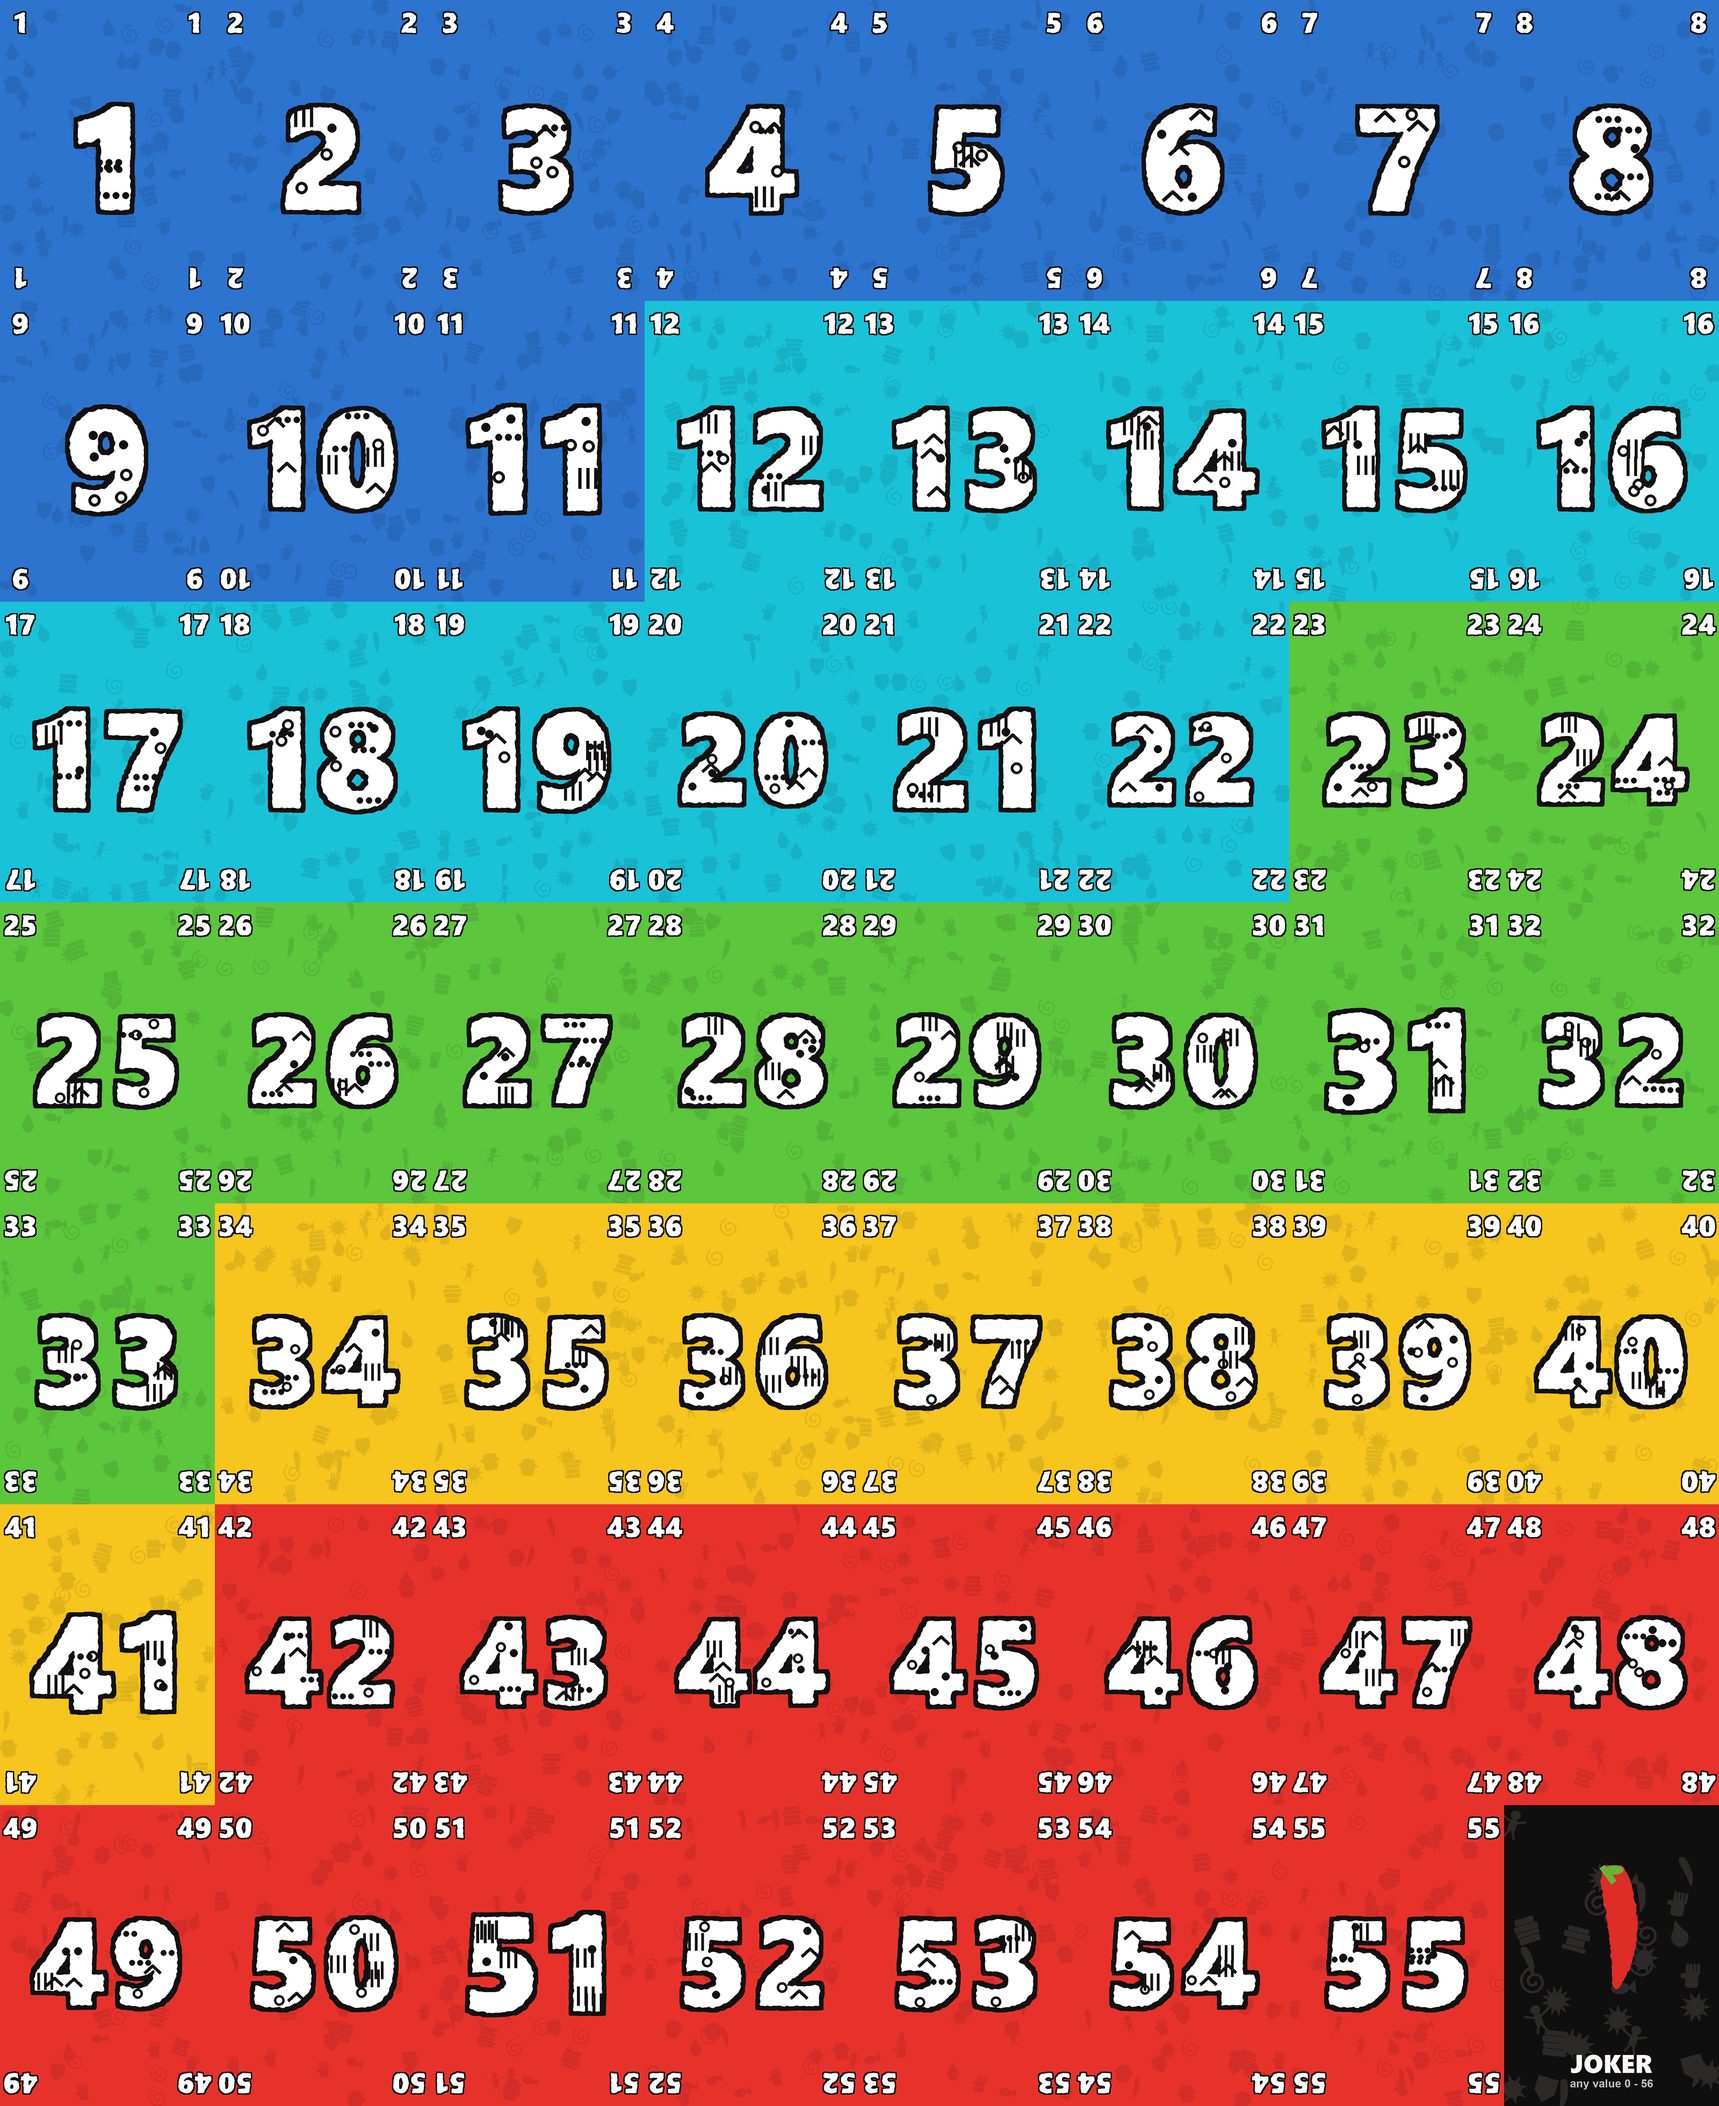
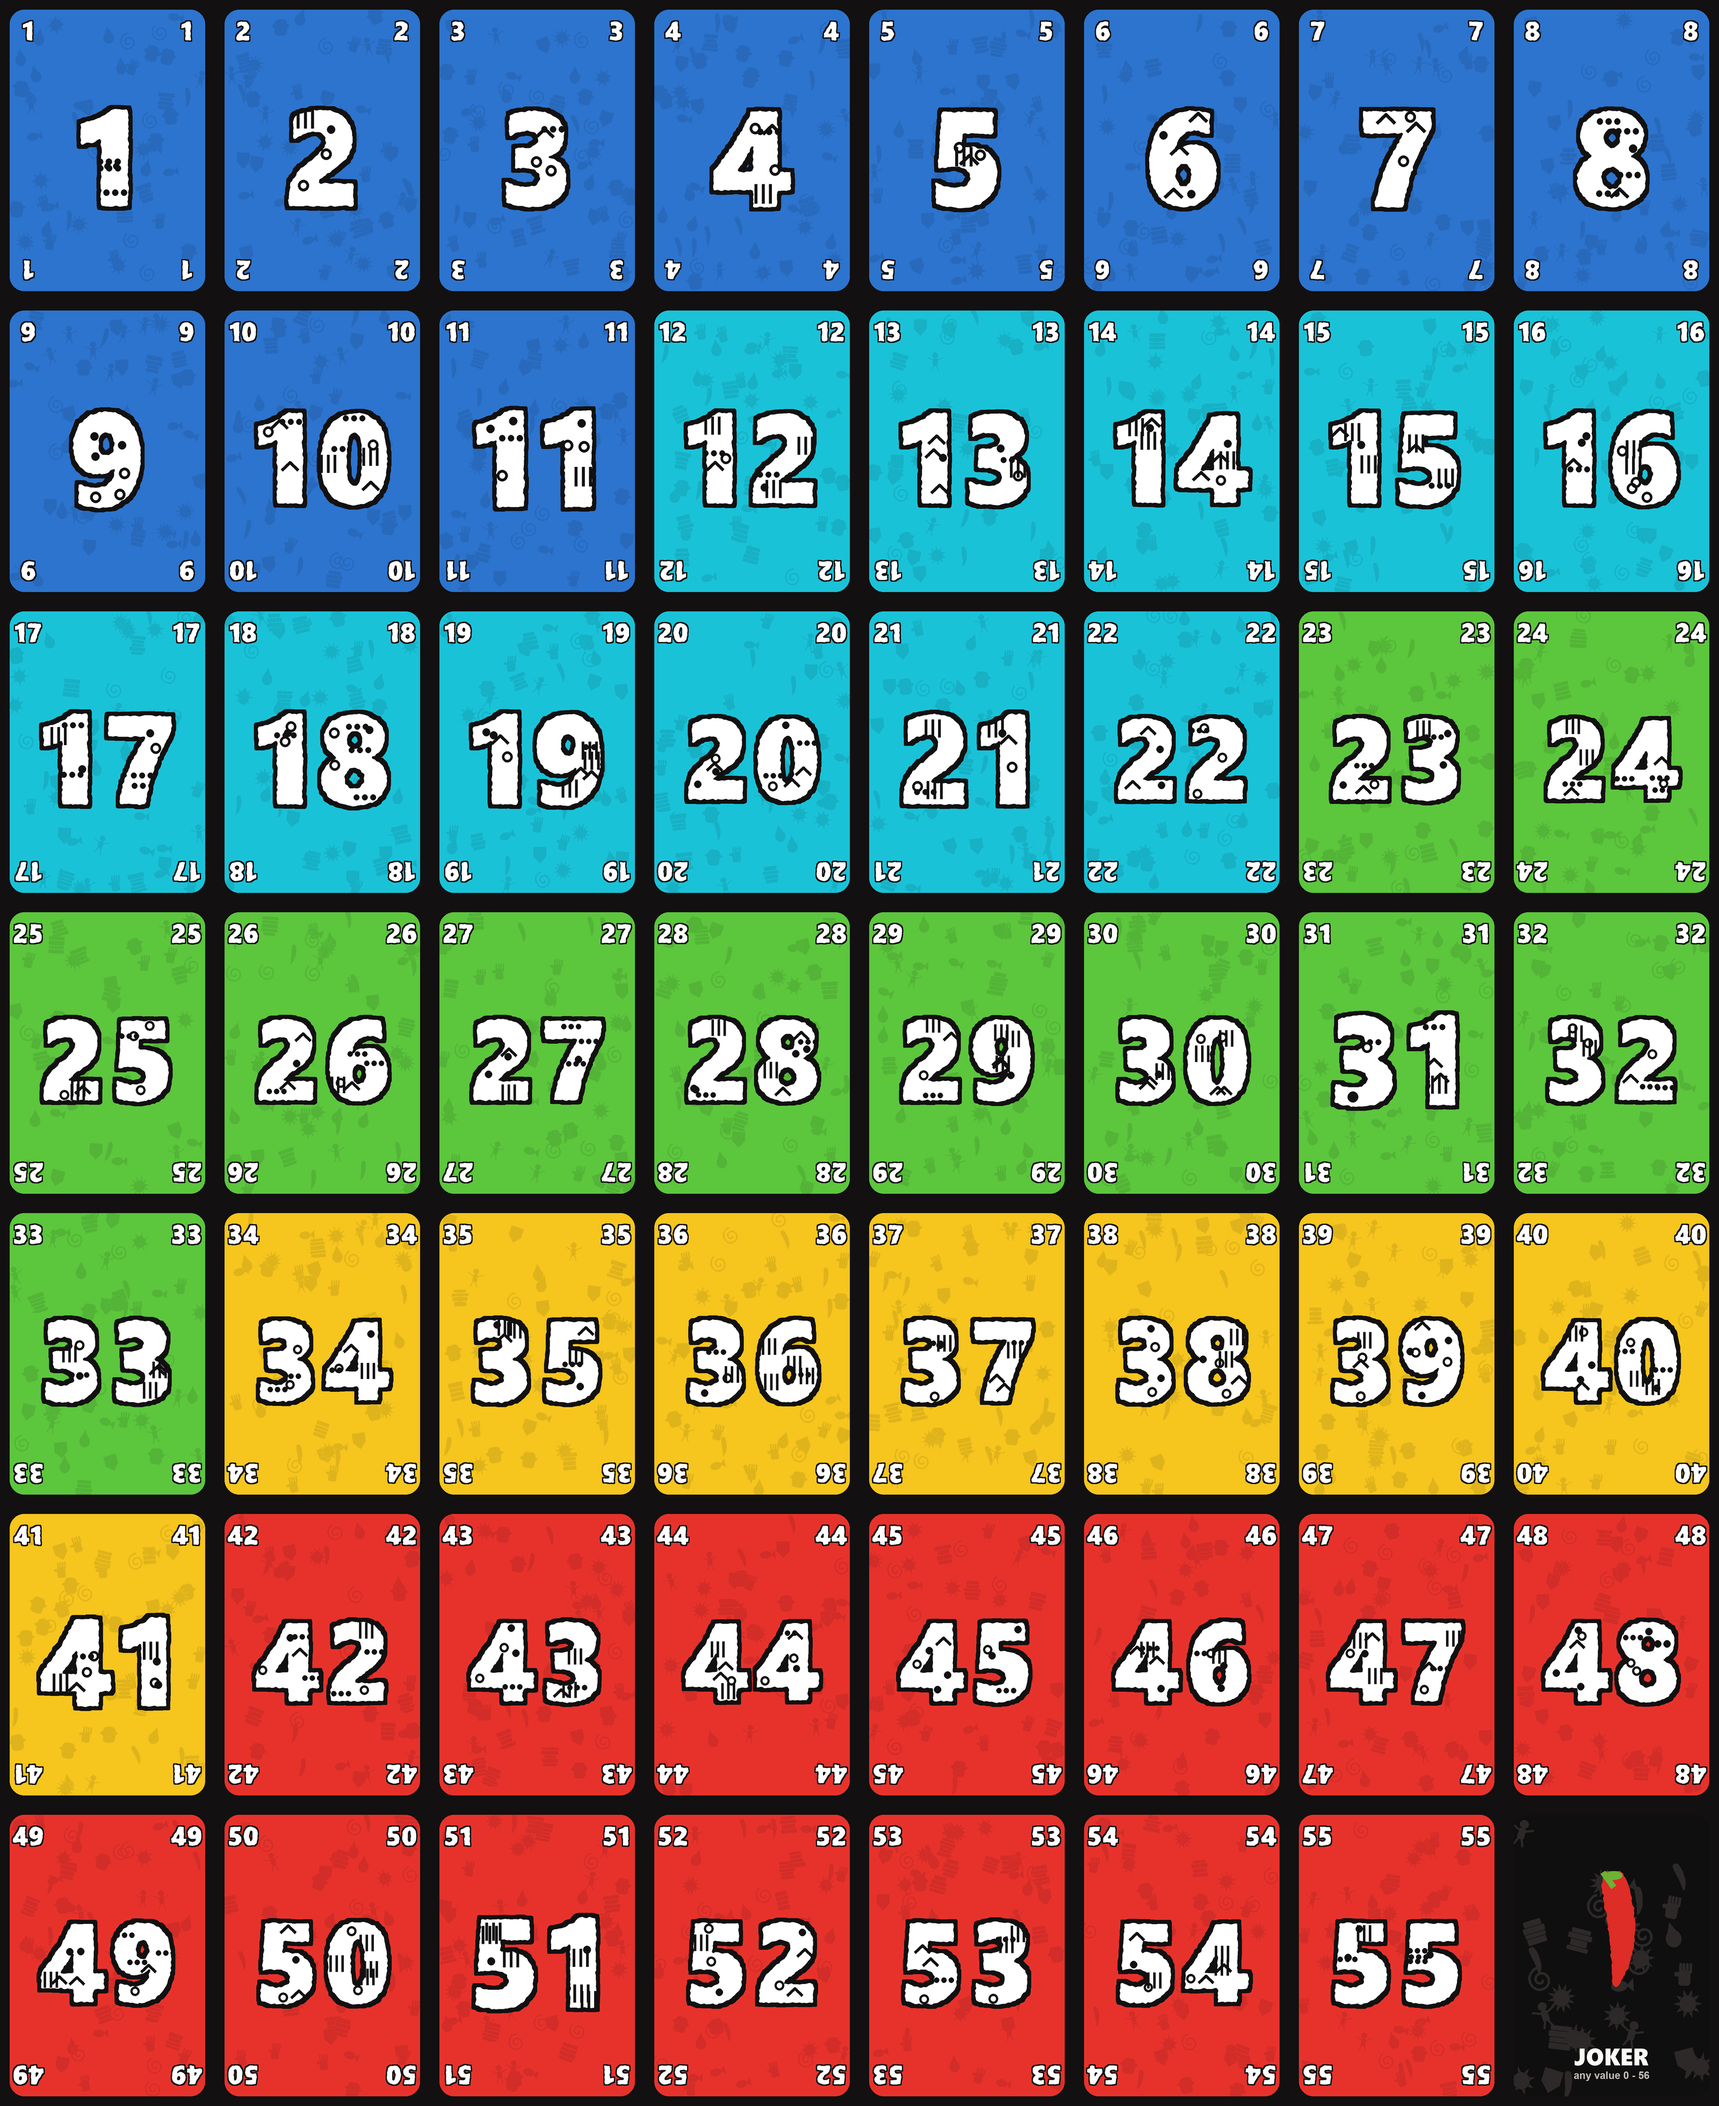
Black card borders, and stop tokens turning into a "?" when flipped
Borders: framed() adds the published cards' heavy black rounded border
to every face and back. It scales the art down into the inset rather
than painting the frame over the top - the corner indices sit close
enough to the edge that painting over would clip them - and rounds the
inner corners, since TTS draws a card as a rounded rectangle and a
square frame would show the felt cutting its corners off.

Tokens: flipping a Pili showed TTS's generic "?" placeholder because
BASE_FLAGS set HideWhenFaceDown on every object this file builds. That
flag hides a face-down object's identity, which is a card behaviour and
nothing else. Real-mod convention is unanimous - all 425 Custom_Tokens,
493 Custom_Tiles, 51 Custom_PDFs and 45 Infinite_Bags checked have it
False; only cards ever set it True (64 of 111). BASE_FLAGS now defaults
False and card()/deck() set it True themselves, so a token looks the
same whichever way up it lands.

Note ImageSecondaryURL is deliberately still empty on tokens: all 452
real Custom_Tokens leave it empty and TTS mirrors the front by itself.
Setting a back image would have papered over the flag bug rather than
fixing it.

Changed region(s): [[0.0, 0.0, 1.0, 1.0]]

diff --git a/build_save.py b/build_save.py
@@ -150,12 +150,21 @@ def transform(pos, rot=(0, 180, 0), scale=1.0):
     }
 
 
+# HideWhenFaceDown is FALSE here and set to True only on cards (see card()/
+# deck()). It hides a face-down object's identity behind TTS's generic "?"
+# placeholder, which is what you want for a card and nothing else - a Pili
+# token flipped over turned into a question mark, reported from a real game.
+# Every one of the 425 real Custom_Tokens checked across 28 workshop mods
+# has it False, as do all 493 Custom_Tiles, all 51 Custom_PDFs and all 45
+# Infinite_Bags; only cards ever set it True (64 of 111). With it off, TTS
+# mirrors the front onto the back by itself, so a token looks the same
+# whichever way up it lands - which is all these ones need.
 BASE_FLAGS = {
     "ColorDiffuse": {"r": 1.0, "g": 1.0, "b": 1.0},
     "Locked": False, "Grid": True, "Snap": True, "IgnoreFoW": False,
     "MeasureMovement": False, "DragSelectable": True, "Autoraise": True,
     "Sticky": True, "Tooltip": True, "GridProjection": False,
-    "HideWhenFaceDown": True, "Hands": True,
+    "HideWhenFaceDown": False, "Hands": True,
 }
 
 
@@ -172,6 +181,7 @@ def card(deck_id, index, nickname, description, gm_notes, cd, pos, rot):
         "GUID": guid(), "Name": "CardCustom",
         "Transform": transform(pos, rot),
         "Nickname": nickname, "Description": description, "GMNotes": gm_notes,
+        "HideWhenFaceDown": True,
         "CardID": deck_id * 100 + index,
         "SidewaysCard": False,
         "CustomDeck": {str(deck_id): cd},
@@ -184,6 +194,7 @@ def deck(deck_id, cards, nickname, gm_notes, cd, pos, rot=(0, 180, 180)):
         "GUID": guid(), "Name": "DeckCustom",
         "Transform": transform(pos, rot),
         "Nickname": nickname, "Description": "", "GMNotes": gm_notes,
+        "HideWhenFaceDown": True,
         "SidewaysCard": False,
         "DeckIDs": [c["CardID"] for c in cards],
         "CustomDeck": {str(deck_id): cd},
@@ -356,13 +367,15 @@ def dealer_marker(image_url, pos):
 def token_bag(image_url, pos, bag_notes, bag_nick, bag_desc,
              token_notes, token_nick, token_desc, scale=1.4):
     """An Infinite_Bag holding one prototype Custom_Token, the pattern both
-    the Pili and trick-token supplies use. Every Custom_Token in ~450 checked
-    across 28 real workshop mods leaves ImageSecondaryURL empty, Stackable or
-    not - TTS mirrors the front onto the back by itself when it is empty and
-    Stackable is false. An earlier attempt here explicitly set the same URL
-    on both sides on the theory that Stackable alone caused a blank back;
-    that was an unverified guess and the actual reported symptom (blank
-    back) suggests it was wrong."""
+    the Pili and trick-token supplies use.
+
+    ImageSecondaryURL stays empty: all 452 real Custom_Tokens checked across
+    28 workshop mods leave it empty, Stackable or not, and TTS mirrors the
+    front onto the back by itself. The reported "flipping a Pili turns it
+    into a ?" was NOT a missing back image - it was HideWhenFaceDown, which
+    this file used to set on every object indiscriminately. See BASE_FLAGS.
+    Setting a back image here would paper over that rather than fix it, and
+    would be the one thing no real mod does."""
     token = dict(BASE_FLAGS, **{
         "GUID": guid(), "Name": "Custom_Token",
         "Transform": transform((pos[0], pos[1] + 1, pos[2]), (0, 0, 0), 0.55),

diff --git a/art.py b/art.py
@@ -194,6 +194,29 @@ def inked_text(layer, xy, text, fnt, anchor="mm", fill=(255, 255, 255),
 # faces
 # --------------------------------------------------------------------------- #
 
+def framed(card, cw, ch, frac=0.045, radius_frac=0.075):
+    """The heavy black border the real cards have.
+
+    The art is scaled down into the inset rather than the frame being painted
+    over the top of it - the corner indices sit close to the edge, and
+    painting over would clip them. A ~4.5% inset costs a sliver of size and
+    keeps everything that was drawn.
+
+    Rounded to match: TTS draws a card as a rounded rectangle, so a square
+    frame would show the felt cutting its corners off.
+    """
+    w, h = card.size
+    b = int(min(w, h) * frac)
+    inner = card.resize((w - 2 * b, h - 2 * b), Image.LANCZOS)
+    out = Image.new("RGBA", (w, h), INK + (255,))
+    mask = Image.new("L", inner.size, 0)
+    r = int(min(inner.size) * radius_frac)
+    ImageDraw.Draw(mask).rounded_rectangle(
+        [0, 0, inner.size[0] - 1, inner.size[1] - 1], r, fill=255)
+    out.paste(inner, (b, b), mask)
+    return out.resize((cw, ch), Image.LANCZOS).convert("RGB")
+
+
 def number_card(value):
     w, h = CARD_W * SS, CARD_H * SS
     base = band_colour(value)
@@ -218,7 +241,7 @@ def number_card(value):
     card.alpha_composite(corner)
     card.alpha_composite(corner.rotate(180))
 
-    return card.resize((CARD_W, CARD_H), Image.LANCZOS).convert("RGB")
+    return framed(card, CARD_W, CARD_H)
 
 
 def joker_card():
@@ -245,7 +268,7 @@ def joker_card():
            fill=PAPER, anchor="mm")
     d.text((w // 2, int(h * 0.925)), "any value 0 - 56",
            font=font(FONT_BOLD, int(h * 0.038)), fill=(196, 190, 182), anchor="mm")
-    return card.resize((CARD_W, CARD_H), Image.LANCZOS).convert("RGB")
+    return framed(card, CARD_W, CARD_H)
 
 
 # which pictogram depicts which effect
@@ -314,7 +337,7 @@ def mission_card(title, body, cards, expert=False):
     if expert:
         d.rectangle([0, 0, w - 1, h - 1], outline=CHILI_RED, width=int(w * 0.022))
 
-    return card.resize((CARD_W, CARD_H), Image.LANCZOS).convert("RGB")
+    return framed(card, CARD_W, CARD_H)
 
 
 def plaque(cw, ch, title, ground=(20, 18, 18), accent=(232, 196, 92),
@@ -457,7 +480,7 @@ def back(cw, ch, label, tint, sub=None):
     if sub:
         d.text((w // 2, int(h * 0.925)), sub, font=font(FONT_BOLD, int(h * 0.042)),
                fill=tint, anchor="mm")
-    return card.resize((cw, ch), Image.LANCZOS).convert("RGB")
+    return framed(card, cw, ch)
 
 
 def pili_token():

diff --git a/CLAUDE.md b/CLAUDE.md
@@ -47,7 +47,11 @@ Matched to the published cards: flat colour bands by value (blue → cyan → gr
 keyline and tribal ink marks inside the digit shapes, indices in all four
 corners, and a field of scattered glyphs in a darker tone of the card colour.
 Missions are pale with a solid ink pictogram and the deal count in a dark box
-bottom-left; backs are black with a flaming mask over crossed chillies.
+bottom-left; backs are black with a flaming mask over crossed chillies. Every
+face and back goes out through `framed()`, which adds the published cards'
+heavy black rounded border - it scales the art down into the inset rather
+than painting the frame over the top, because the corner indices sit close
+enough to the edge that painting over would clip them.
 
 `glyphs.py` is the interesting part. Silhouettes (mask, totem, figure, sun,
 chilli, hand…) and interior marks (chevrons, dot rows, zigzags, hatching, eyes,
@@ -275,14 +279,23 @@ again immediately before the next scripted `.shuffle()`/`.deal()`/
 without this pattern and it can still walk off under a strong-enough nudge,
 rail or no rail.
 
+**`HideWhenFaceDown` belongs on cards and nothing else.** It hides a
+face-down object's identity behind TTS's generic "?" placeholder - correct
+for a card, wrong for everything else. `BASE_FLAGS` used to set it `True`
+for every object this file builds, so flipping a Pili token over turned it
+into a question mark (reported from a real game). Real-mod convention is
+unanimous: all 425 `Custom_Token`s, all 493 `Custom_Tile`s, all 51
+`Custom_PDF`s and all 45 `Infinite_Bag`s checked across 28 mods have it
+`False`; only cards ever set it `True` (64 of 111). `BASE_FLAGS` now
+defaults to `False` and `card()`/`deck()` set it `True` themselves.
+
 **Every `Custom_Token`'s `ImageSecondaryURL` is empty, always, even for
-one-shot tokens with a genuinely blank back** - confirmed against ~450
+one-shot tokens with a genuinely blank back** - confirmed against all 452
 tokens across 28 real workshop mods, `Stackable` true or false. TTS mirrors
-the front onto the back itself when it is empty and `Stackable` is false. An
-earlier version of `pili_bag()` explicitly set the same URL on both sides on
-an unverified guess about why the back was blank, and that was almost
-certainly the actual bug, not the fix. Don't set `ImageSecondaryURL` on a
-`Custom_Token` unless you actually want a different back image.
+the front onto the back itself, so a token looks the same whichever way up
+it lands. Don't set `ImageSecondaryURL` on a `Custom_Token` unless you
+actually want a *different* back image - in particular, don't reach for it
+to fix a blank/"?" back, which is the `HideWhenFaceDown` problem above.
 
 **The seating order is injected into the Lua at build time**, not written in
 `global.lua` itself - `build_save.py` prepends `SEAT_ORDER = {...}` (from `SEATS`)
